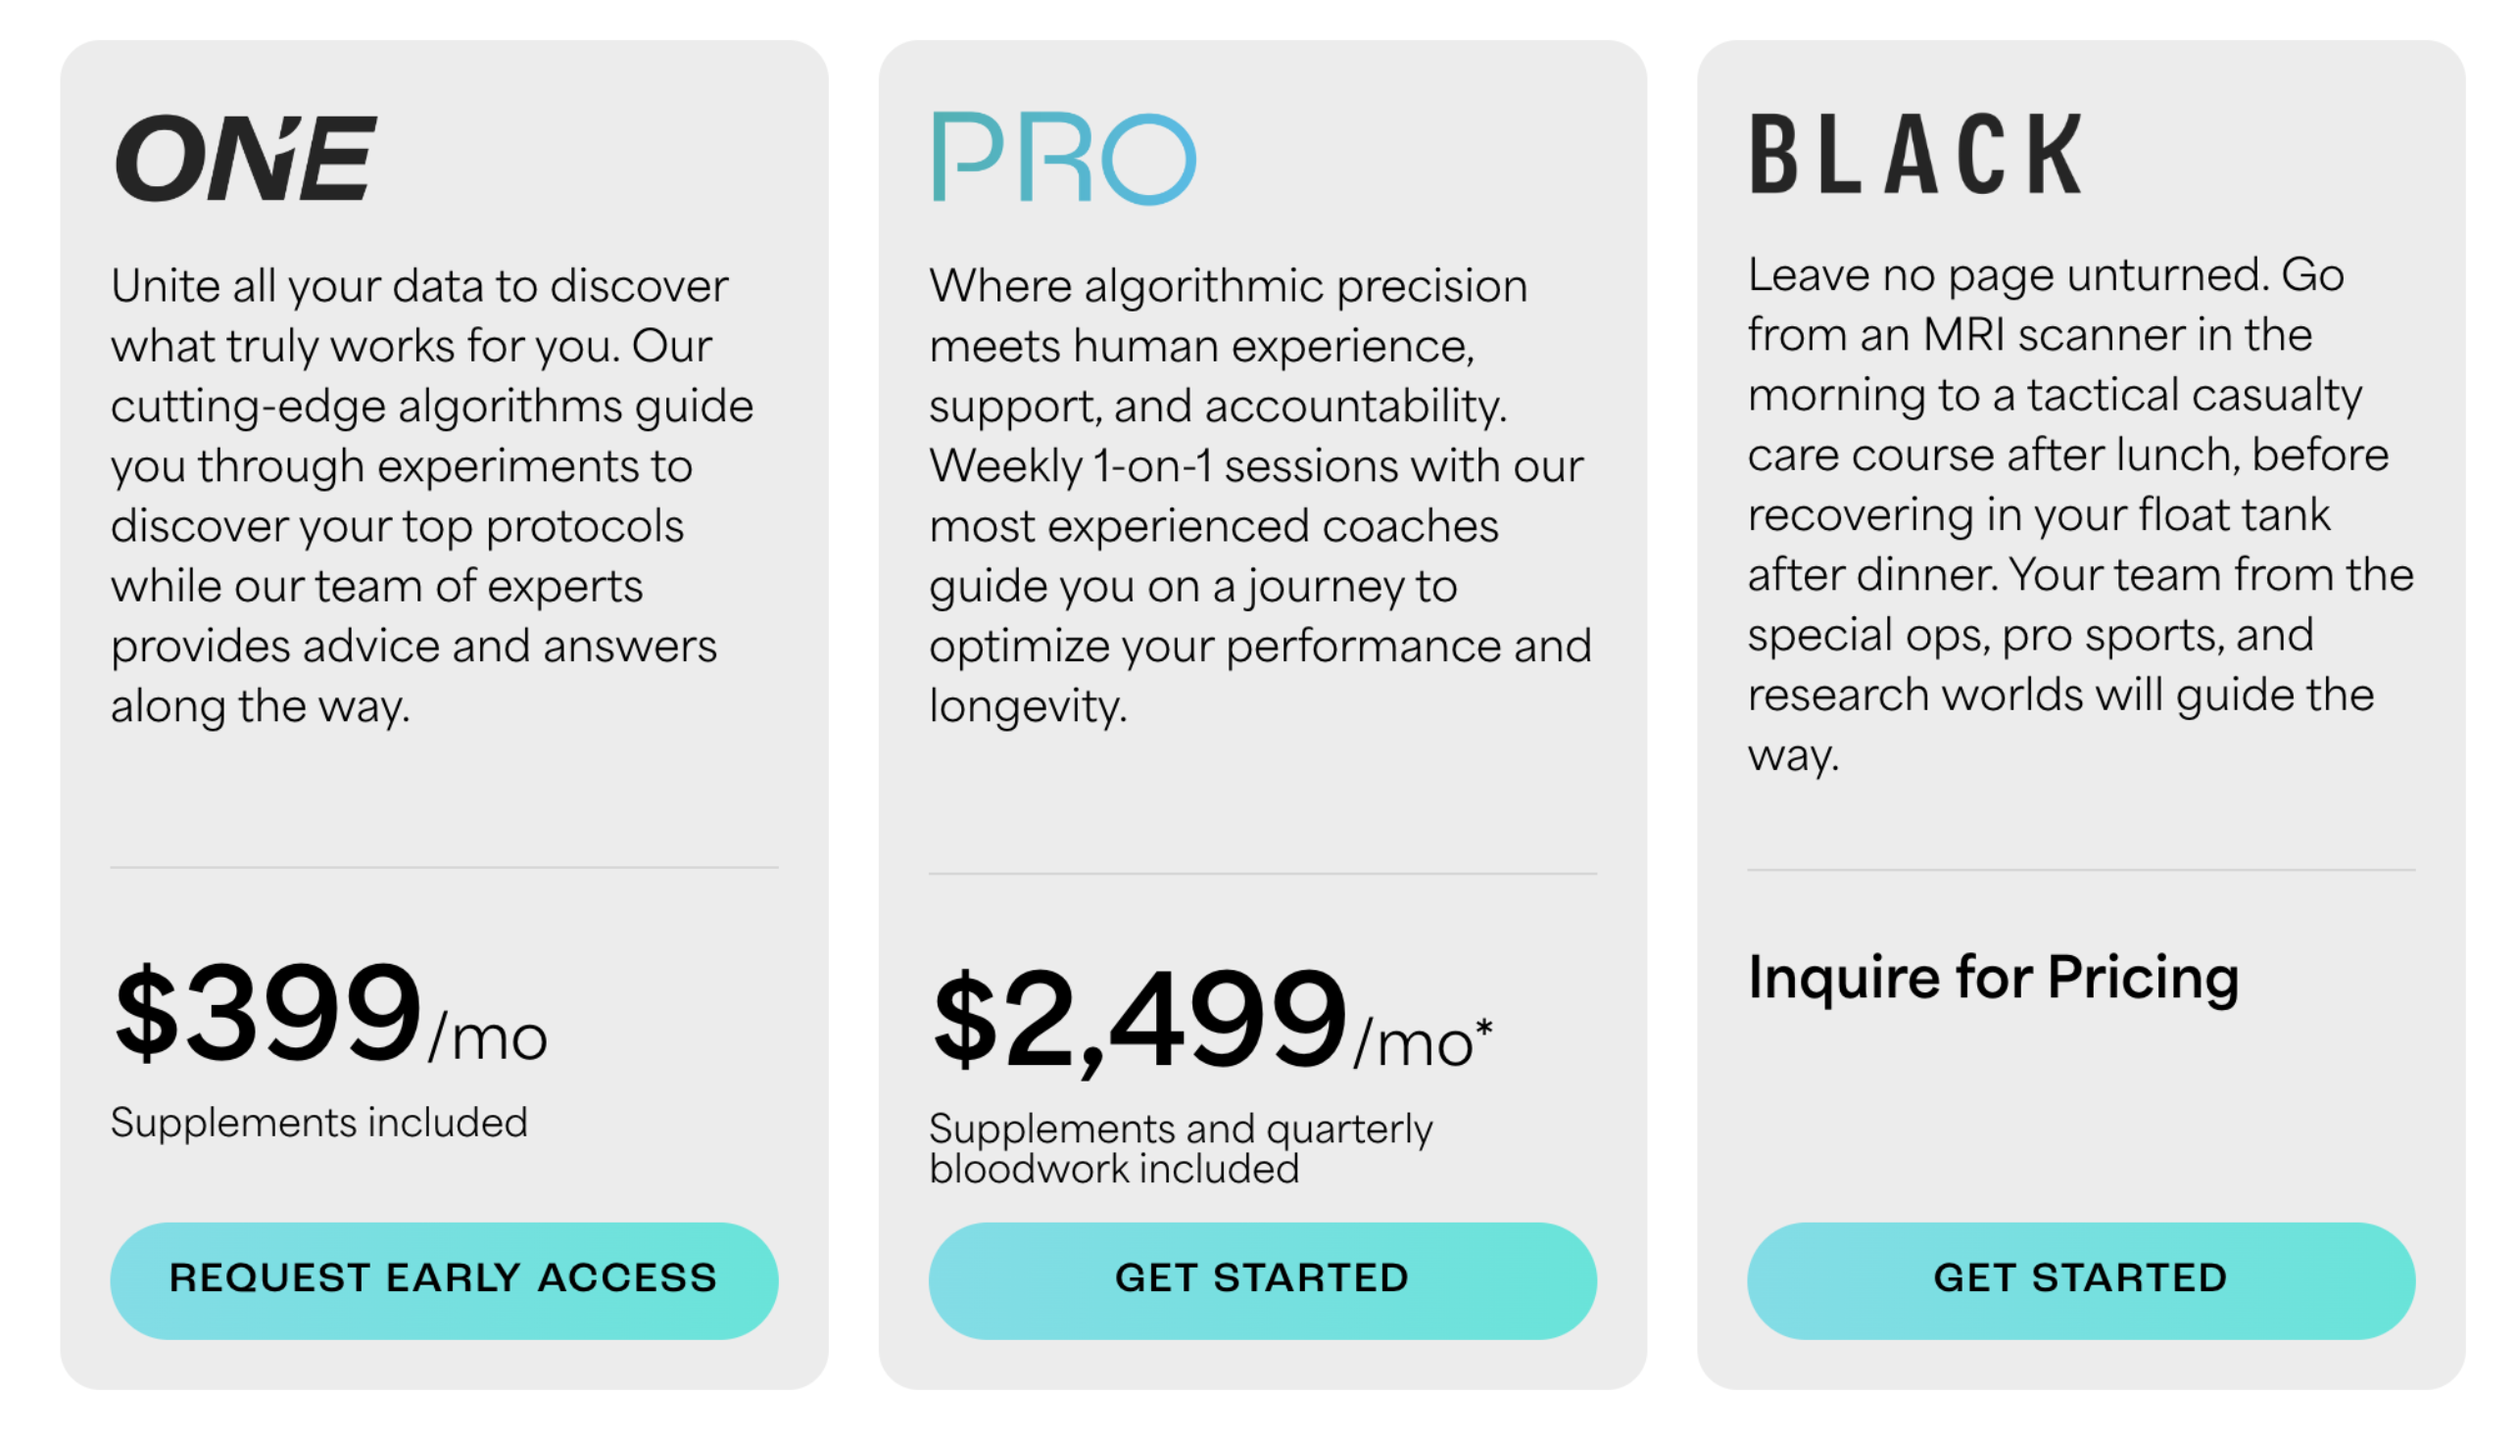
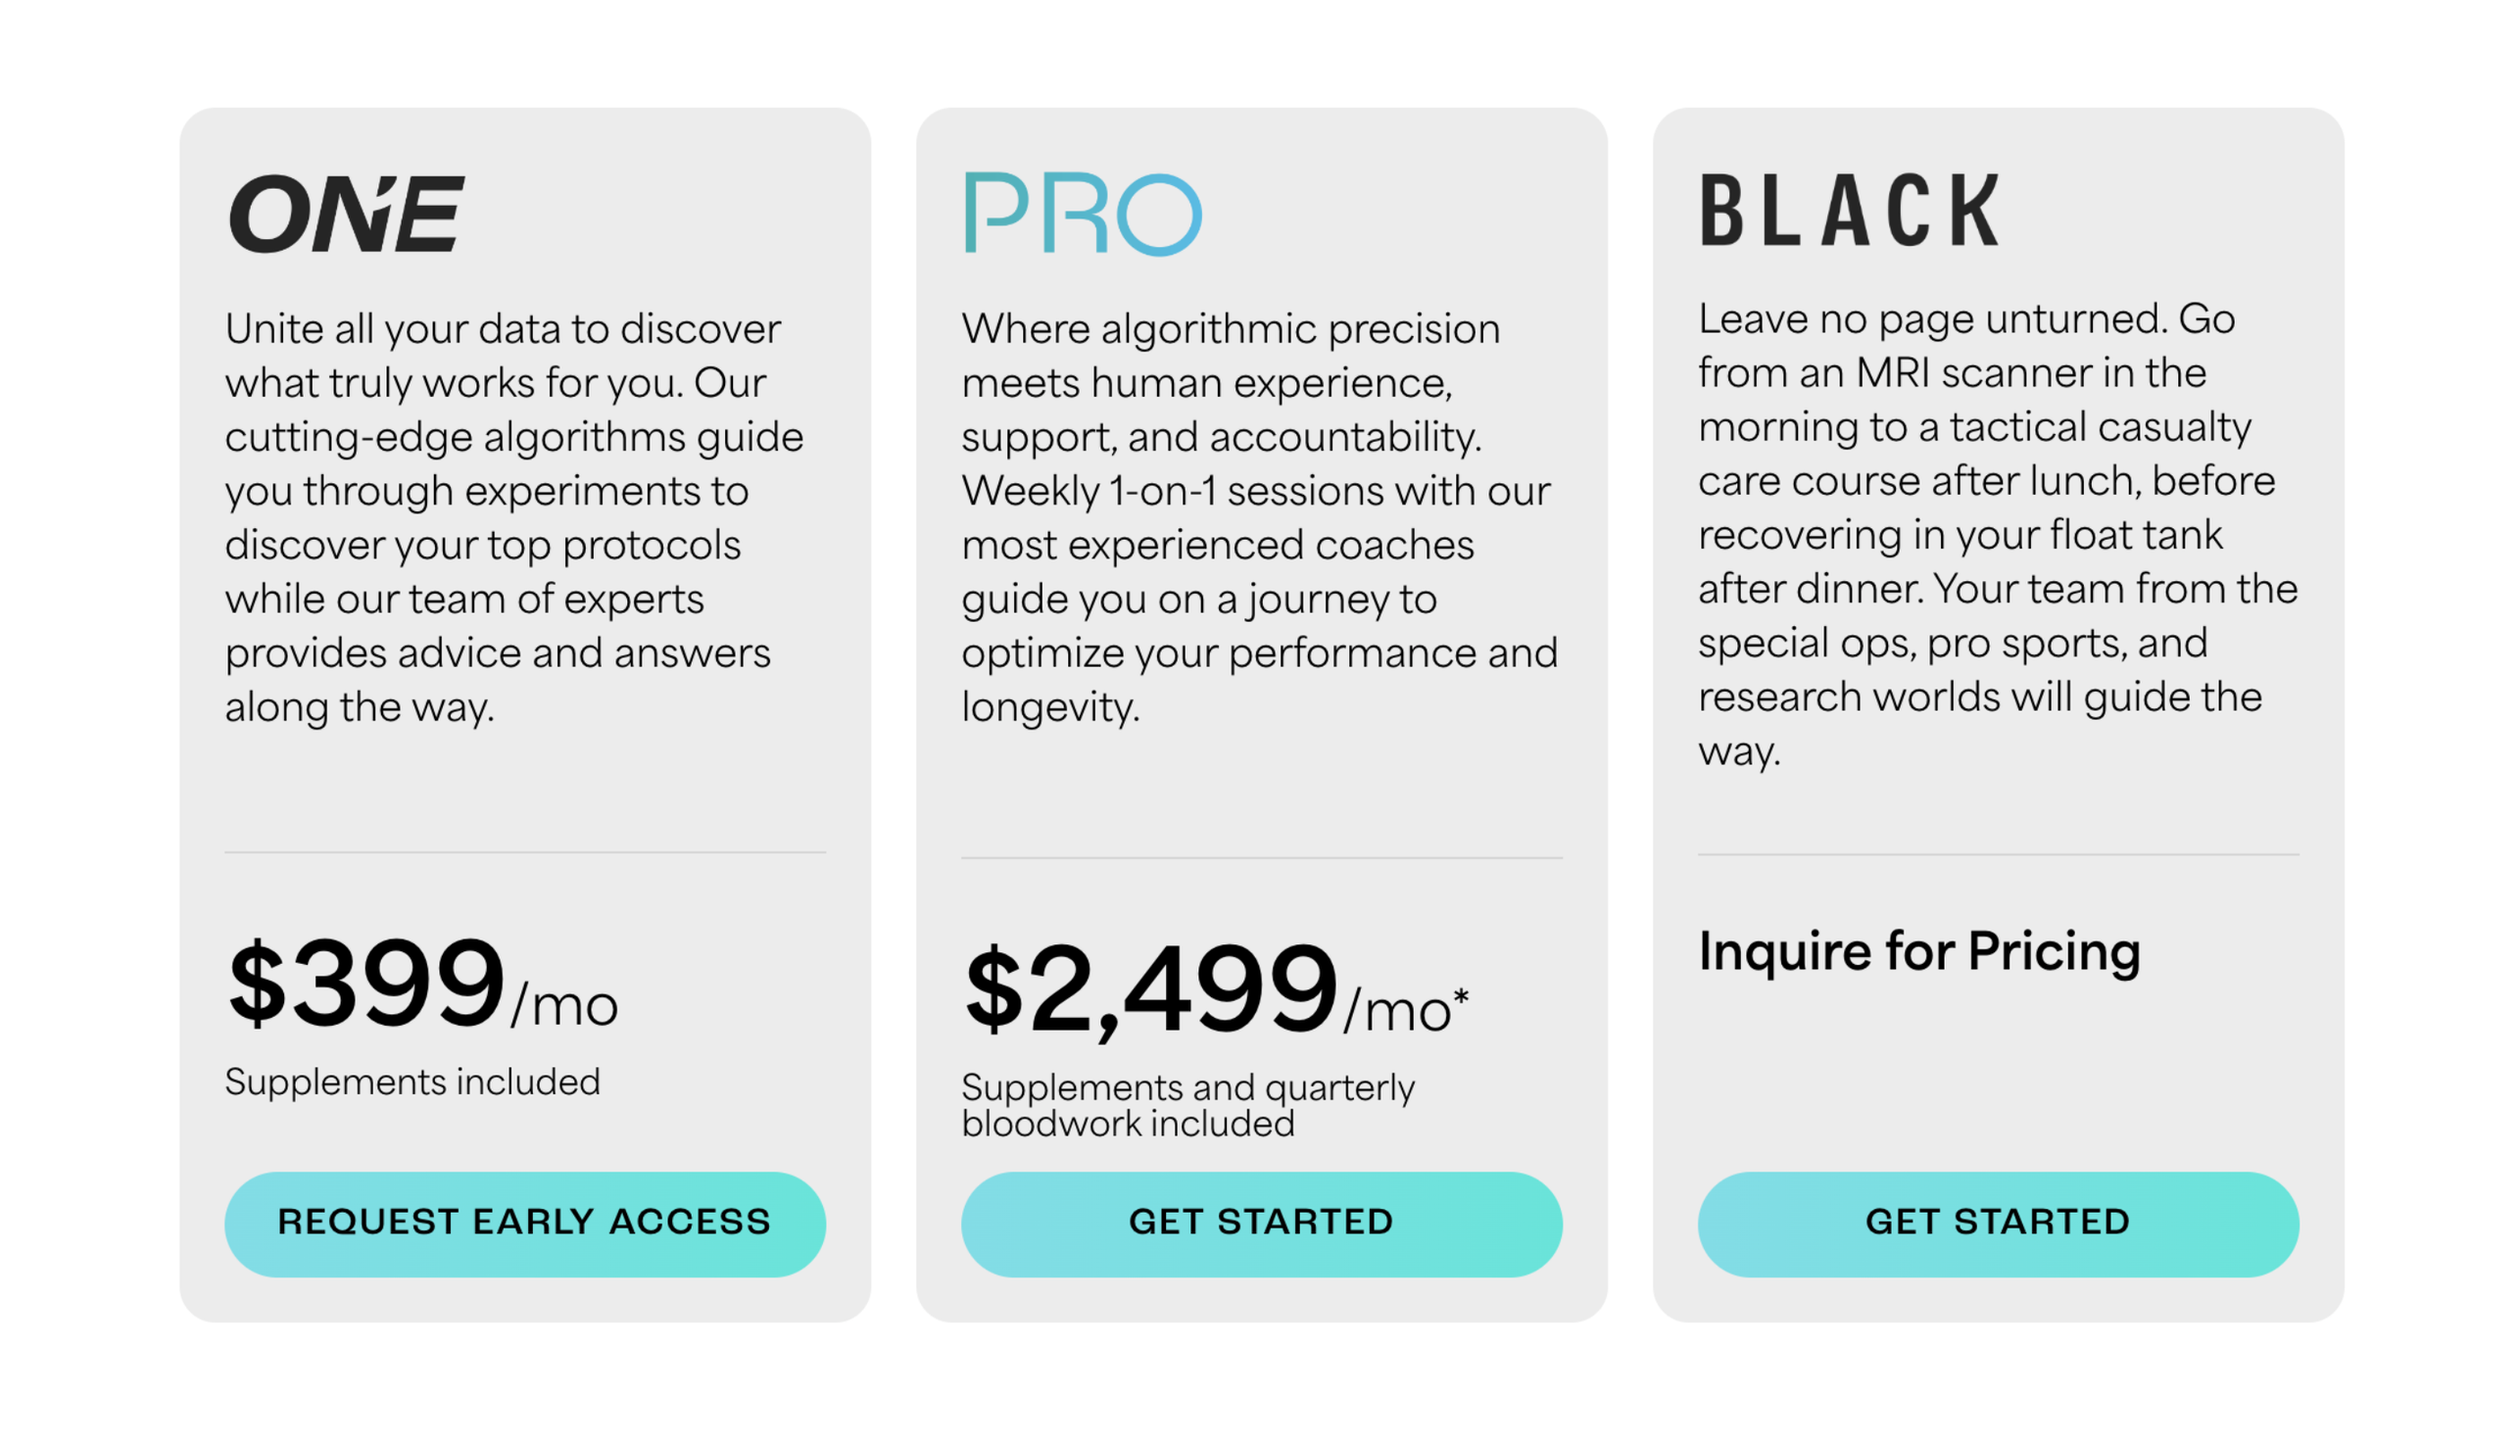
Shrink Fount pricing tiers graphic 10% in-image
CSS scaling could not pull the cards in while keeping the white 16:9
frame. Recompose the PNG at 90% on the same canvas and drop the
temporary layout class.

diff --git a/project-fount.html b/project-fount.html
@@ -109,16 +109,6 @@
   html[data-theme="light"] .case-block.block-text a:hover{color:#1a1a19; background:var(--chartreuse); padding-inline:0.35em; margin-inline:-0.35em;}
   .case-block.block-text strong{color:var(--ink); font-weight:600;}
   .case-block .p-image{aspect-ratio:16/9;}
-  .case-block .p-image.p-image-sm{
-    display:flex;
-    align-items:center;
-    justify-content:center;
-  }
-  .case-block .p-image.p-image-sm img{
-    width:90%;
-    height:90%;
-    object-fit:contain;
-  }
   .case-block.block-text a.press-link{
     color:var(--chartreuse);
     text-decoration:underline;
@@ -543,7 +533,7 @@
         </div>
       </div>
       <div class="case-block block-image joins-prev">
-        <div class="p-image p-image-sm"><img src="images/fount/fount-pricing-tiers.png" alt="Fount membership tiers, One, Pro, and Black pricing"></div>
+        <div class="p-image"><img src="images/fount/fount-pricing-tiers.png" alt="Fount membership tiers, One, Pro, and Black pricing"></div>
         <p class="block-cap">One brand system, three membership tiers, from $399/mo to a fully bespoke Black tier.</p>
       </div>
 
